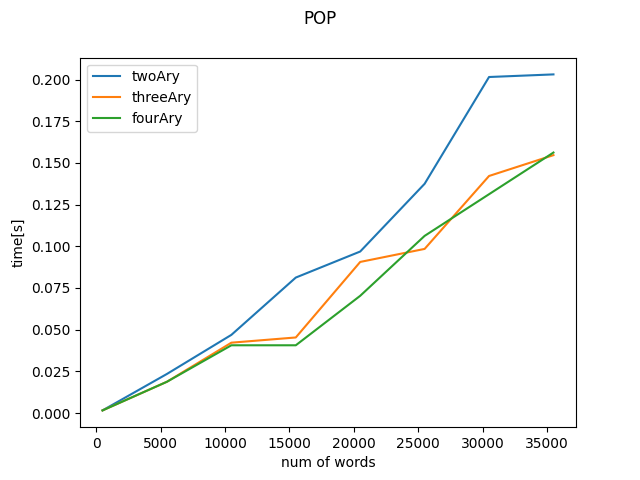
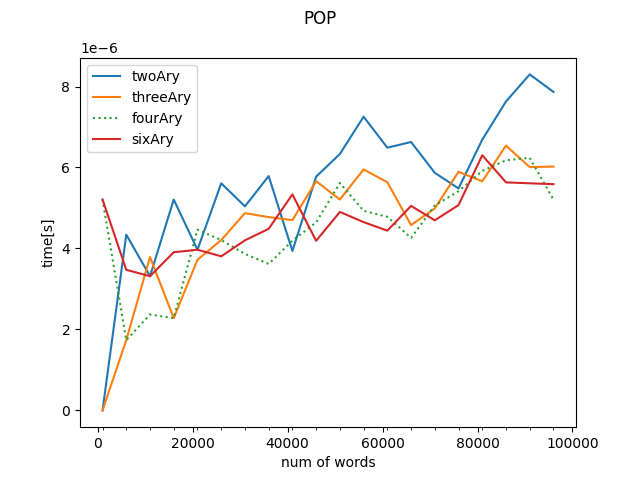
a

diff --git a/main.py b/main.py
@@ -6,8 +6,8 @@ from matplotlib import pyplot as plt
 
 MAX_NUM_OF_NUMBERS = 100000
 RANGE_OF_NUMERS = 100000
-NUM_OF_ITERATIONS = 10
-INTERVAL = 1000
+NUM_OF_ITERATIONS = 3
+INTERVAL = 5000
 
 def measure_time_push(my_heap: twoAry | threeAry | fourAry, \
                  iterations: int, numbers: int):
@@ -23,7 +23,7 @@ def measure_time_push(my_heap: twoAry | threeAry | fourAry, \
         stop = time.process_time()
         if gc_old: gc.enable()
         sum_time += (stop-start)
-    return sum_time/iterations
+    return sum_time/iterations/len(range(numbers))
 
 def measure_time_pop(my_heap: twoAry | threeAry | fourAry, iterations: int, numbers: int):
     sum_time = 0
@@ -40,7 +40,7 @@ def measure_time_pop(my_heap: twoAry | threeAry | fourAry, iterations: int, numb
         stop = time.process_time()
         if gc_old: gc.enable()
         sum_time += (stop-start)
-    return sum_time/iterations
+    return sum_time/iterations/len(range(numbers))
 
 def main():
     heap_twoAry = twoAry()
@@ -53,14 +53,14 @@ def main():
     y_list_twoAry = []
     y_list_threeAry = []
     y_list_fourAry = []
-    
+
     for i in range(1000, MAX_NUM_OF_NUMBERS+1, INTERVAL):
         x_list.append(i)
         y_list_twoAry.append(measure_time_push(heap_twoAry, NUM_OF_ITERATIONS, i))
         y_list_threeAry.append(measure_time_push(heap_threeAry, NUM_OF_ITERATIONS, i))
         y_list_fourAry.append(measure_time_push(heap_fourAry, NUM_OF_ITERATIONS, i))
         print("\r Measuring PUSH. Progress: {0}/{1}".format(i/INTERVAL, MAX_NUM_OF_NUMBERS/INTERVAL), end='')
-    
+
     plt.figure(0)
     plt.ylabel('time[s]')
     plt.xlabel('num of words')
@@ -81,7 +81,7 @@ def main():
         y_list_threeAry.append(measure_time_pop(heap_threeAry, NUM_OF_ITERATIONS, i))
         y_list_fourAry.append(measure_time_pop(heap_fourAry, NUM_OF_ITERATIONS, i))
         print("\r Measuring POP. Progress: {0}/{1}".format(i/INTERVAL, MAX_NUM_OF_NUMBERS/INTERVAL), end='')
-    
+
     plt.figure(1)
     plt.ylabel('time[s]')
     plt.xlabel('num of words')
@@ -98,7 +98,7 @@ def main():
     print("\r Measurements complete")
     # for i in range(1, 11):
     #     heap_twoAry.push(i)
-    
+
     # for i in range(0, 9):
     #     heap_twoAry.pop()
     #     print(heap_twoAry.heap)
